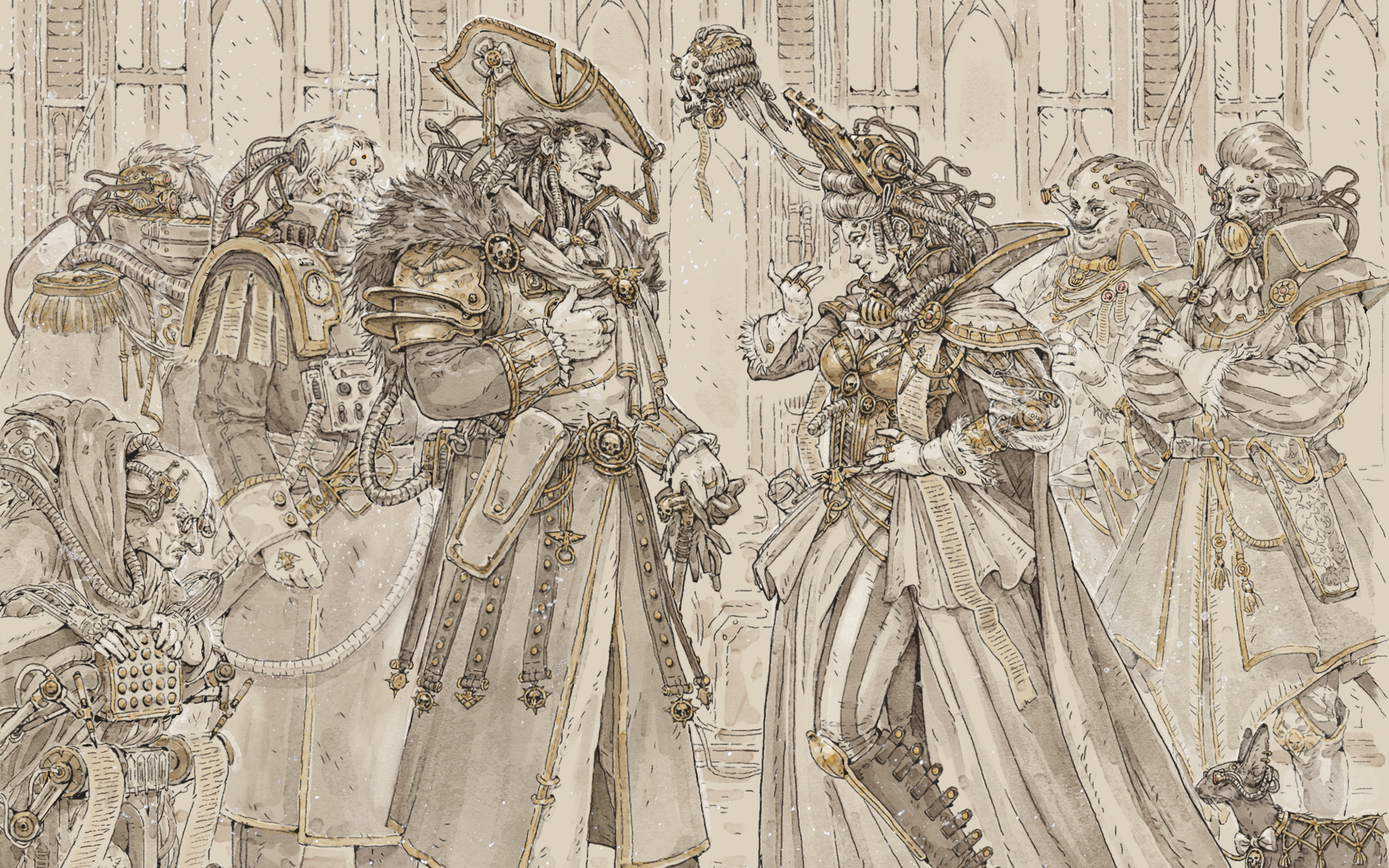
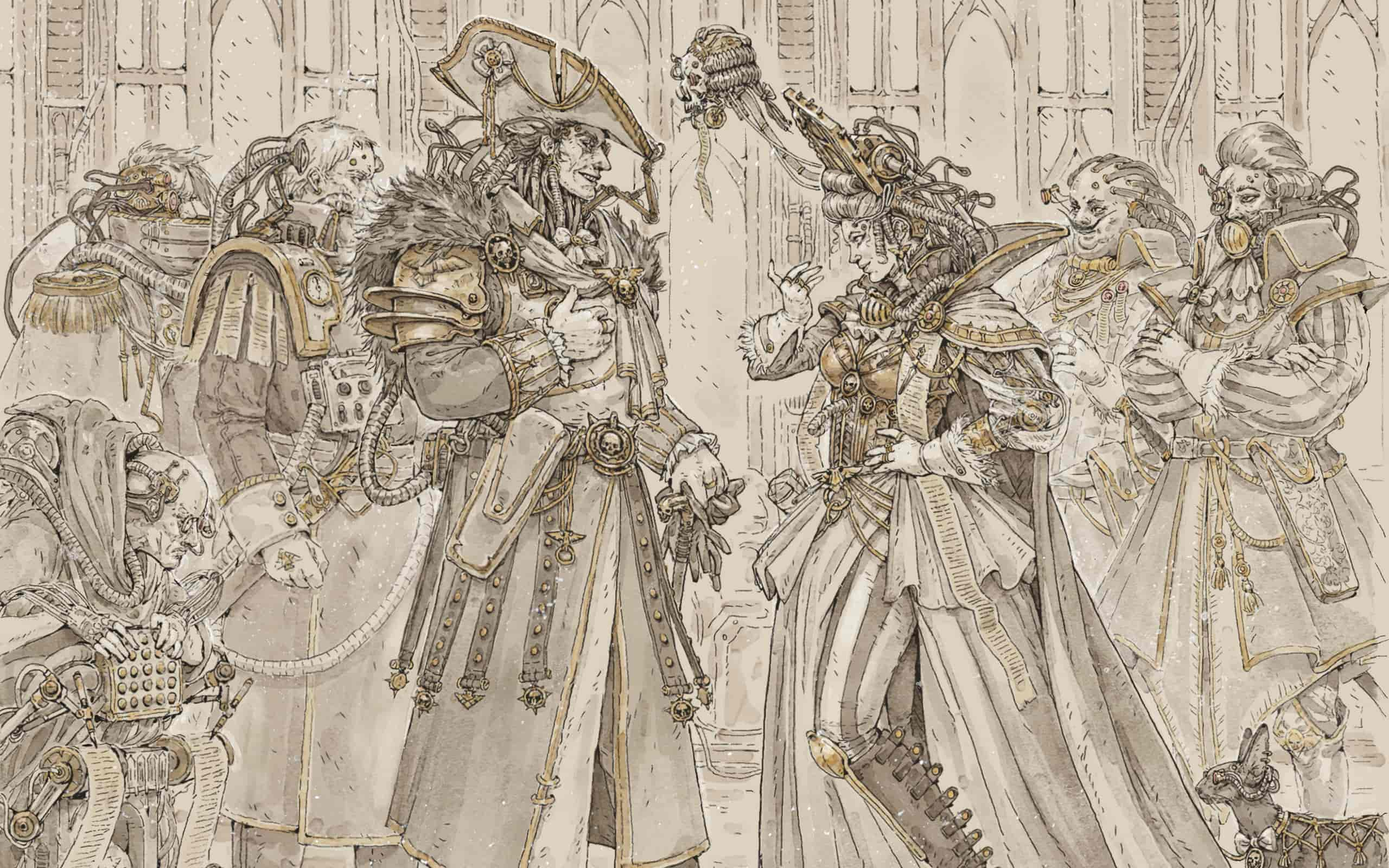
fix: compress assets

diff --git a/README.md b/README.md
@@ -32,7 +32,6 @@ e-card
 │  │  ├─ citizen.jpg
 │  │  ├─ emperor.jpg
 │  │  ├─ slave.jpg
-│  │  └─ vue.svg
 │  ├─ main.ts
 │  ├─ router # 路由
 │  │  └─ index.ts
